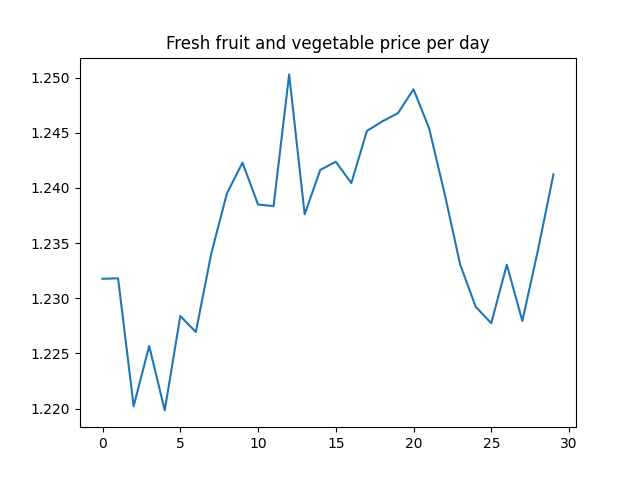
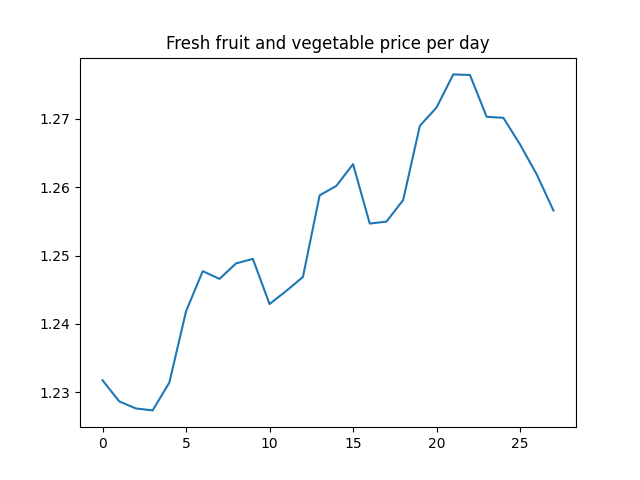
update doctests and add plots

diff --git a/run_simulation.py b/run_simulation.py
@@ -128,7 +128,7 @@ def generate_good_prices(price_summary: pd.DataFrame, num_days: int, ) -> dict[l
     :return: dictionary of price distributions for food items and gasoline
     >>> input_df=pd.read_csv("price_summary.csv")
     >>> output=generate_good_prices(input_df, 365)
-    >>> 2.5<np.mean(output[GAS])<3.4
+    >>> 2.4<np.mean(output[GAS])<3.5
     True
 
     """
@@ -161,7 +161,7 @@ def good_price_distr(price_summary: pd.DataFrame, good: str, num_days: int,
     :return: distribution of good price
     >>> prices=pd.read_csv("price_summary.csv")
     >>> gas=good_price_distr(prices, "gas", 365)
-    >>> 2.5<np.mean(gas)<3.4
+    >>> 2.4<np.mean(gas)<3.5
     True
     >>> np.std(gas)<0.3
     True
@@ -225,8 +225,8 @@ def generate_net_demand(num_foodbank: int, excess_supply_demand: tuple[list[Food
 
     >>> fb=[FoodBank(100000,300000, ), FoodBank(100000,300000, )]
     >>> sup_demand=precalculate_supply_demand(fb)
-    >>> generate_net_demand(2,sup_demand)
-
+    >>> np.shape(generate_net_demand(2,sup_demand))
+    (5, 2, 2)
     """
 
     net_food_demand = np.zeros(
@@ -237,9 +237,6 @@ def generate_net_demand(num_foodbank: int, excess_supply_demand: tuple[list[Food
             demanded_food = excess_supply_demand[1][j].get_quantity()
             for k in range(len(FOOD_GOODS)):
                 food = FOOD_GOODS[k]
-                if available_food[food] != 0 and -demanded_food[food] != 0:
-                    print(available_food[food] != 0)
-                    print(-demanded_food[food] != 0)
                 net_food_demand[k, i, j] = min(available_food[food], -demanded_food[food])
     return net_food_demand
 
@@ -268,10 +265,9 @@ def food_network(food_banks: list, distance_mat: np.ndarray, payment_source: str
     net_demand = generate_net_demand(num_foodbank, excess_supply_demand)
 
     pounds_to_move = np.sum(net_demand, axis=0)
-
     pounds_to_move[pounds_to_move < 1000] = 0  # set threshold for reasonable transport
-    for i in range(len(food_goods)):
-        food_market_value += net_demand[i] * Global.price_for(food_goods[i])
+    for i in range(len(FOOD_GOODS)):
+        food_market_value += net_demand[i] * Global.price_for(FOOD_GOODS[i])
 
     cost_per_truck = distance_mat / TRUCK_MPG * Global._gas_price * 2  # return trip for truck
     cost_per_lb_truck = cost_per_truck / POUNDS_PER_TRUCK
@@ -288,15 +284,15 @@ def food_network(food_banks: list, distance_mat: np.ndarray, payment_source: str
     # take top non-zero value of each row, and exchange the food between the food banks
 
     for i in range(0, len(top_efficiency)):
-        if cost_effective[top_efficiency[i], i] != 0:
+        if cost_effective[i, top_efficiency[i]] != 0:
             j = top_efficiency[i]
             if payment_source == "recipient":
-                costs[j] = total_cost[j, i]
+                costs[j] = total_cost[i, j]
             if payment_source == "sender":
-                costs[i] = total_cost[j, i]
+                costs[i] = total_cost[i, j]
             for k in range(len(FOOD_GOODS)):
-                amount = net_demand[k, j, i]  # access amount of food to transfer for each food type
-                food_exchange(food_banks[j], food_banks[i], excess_supply_demand[0][j], FOOD_GOODS[k], amount)
+                amount = net_demand[k, i, j]  # access amount of food to transfer for each food type
+                food_exchange(food_banks[i], food_banks[j], excess_supply_demand[0][i], FOOD_GOODS[k], amount)
 
     return costs
 
@@ -314,11 +310,11 @@ def food_exchange(sender: FoodBank, recipient: FoodBank, food:Food, type:str,amo
     :param amount: amount of food to transfer
     :return: None
     >>> FB1=FoodBank(10000,20000)
-    >>> FB2 = FoodBank (10000,0)
+    >>> FB2 = FoodBank (10000,1)
     >>> excess=precalculate_supply_demand([FB1,FB2])
     >>> food_exchange(FB1, FB2, excess[0][0], STP, 100)
-    >>> FB1.get_food_quantity()
-    >>> FB2.get_food_quantity()
+    >>> FB2.get_food_quantity()[STP]>1
+    True
     """
 
     sub_food=food.select(type)
@@ -327,7 +323,7 @@ def food_exchange(sender: FoodBank, recipient: FoodBank, food:Food, type:str,amo
             sender.extract_food_from_storage(sub_food)
             recipient.receive_food(sub_food)
         except ValueError:
-            print("Food already distributed")
+            pass
 
 
 
@@ -349,9 +345,9 @@ if __name__ == "__main__":
 
 
     ###CONFIG VARIABLES (SETTABLE)###
-    num_days = 30  # number of days to run simulation
+    num_days = 28  # number of days to run simulation
     inflation_rate = 1.08
-    num_food_banks=20
+    num_food_banks=10
     network_distribution=False
 
     if network_distribution:
